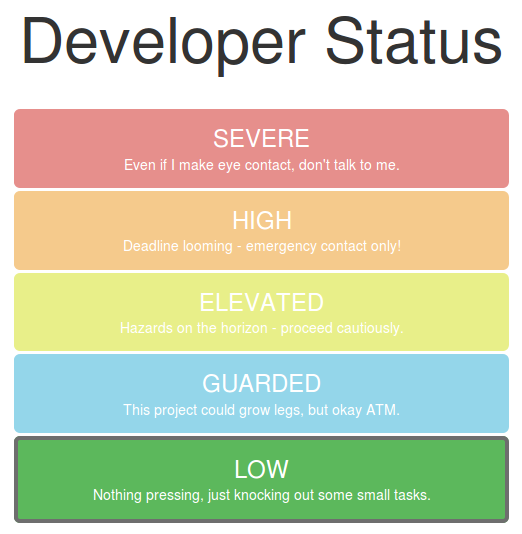
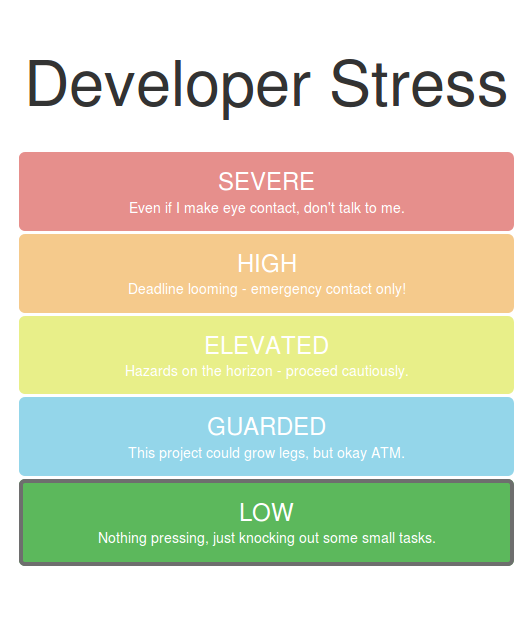
Change Status to Stress

diff --git a/resources/views/status.blade.php b/resources/views/status.blade.php
@@ -5,7 +5,7 @@
     <meta http-equiv="X-UA-Compatible" content="IE=edge">
     <meta name="viewport" content="width=device-width, initial-scale=1">
     <!-- The above 3 meta tags *must* come first in the head; any other head content must come *after* these tags -->
-    <title>Developer Status</title>
+    <title>Developer Stress Level</title>
 
     <link rel="stylesheet" href="{{ elixir('css/app.css') }}">
 
@@ -19,7 +19,7 @@
 <body>
     <div class="container">
         <div class="jumbotron">
-            <h1>Developer Status</h1>
+            <h1>Developer Stress</h1>
             <div id="status-button-container" class="row">
                 <div class="col-sm-12 col-md-6 col-md-offset-3">
                     <button type="button" class="btn btn-danger btn-lg status-button disabled">
